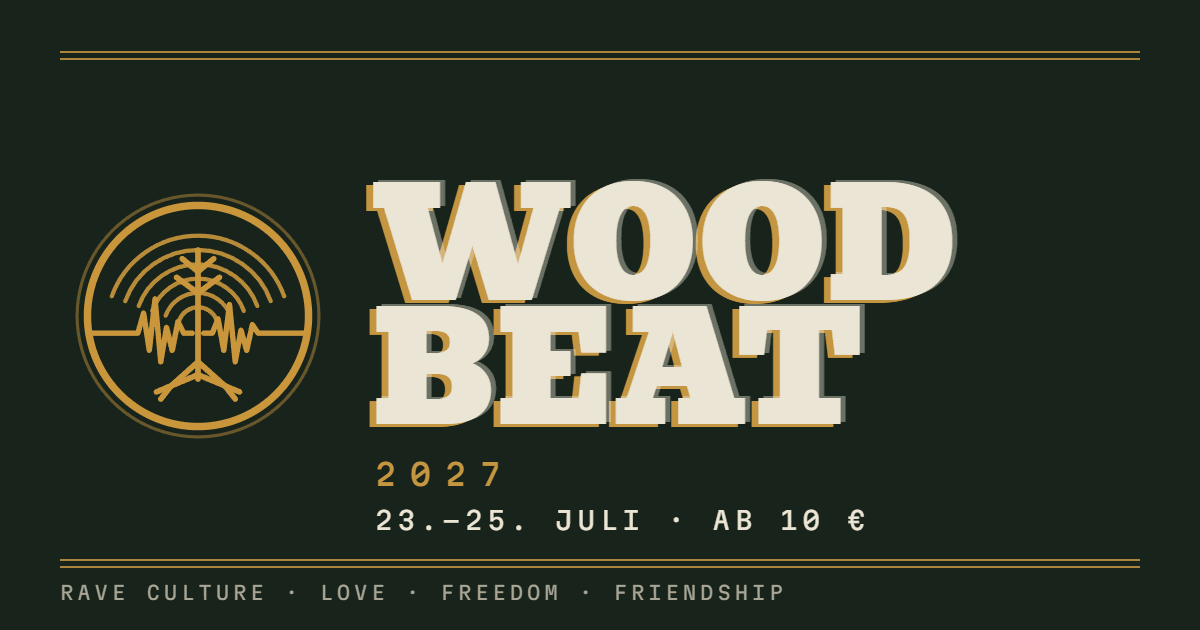
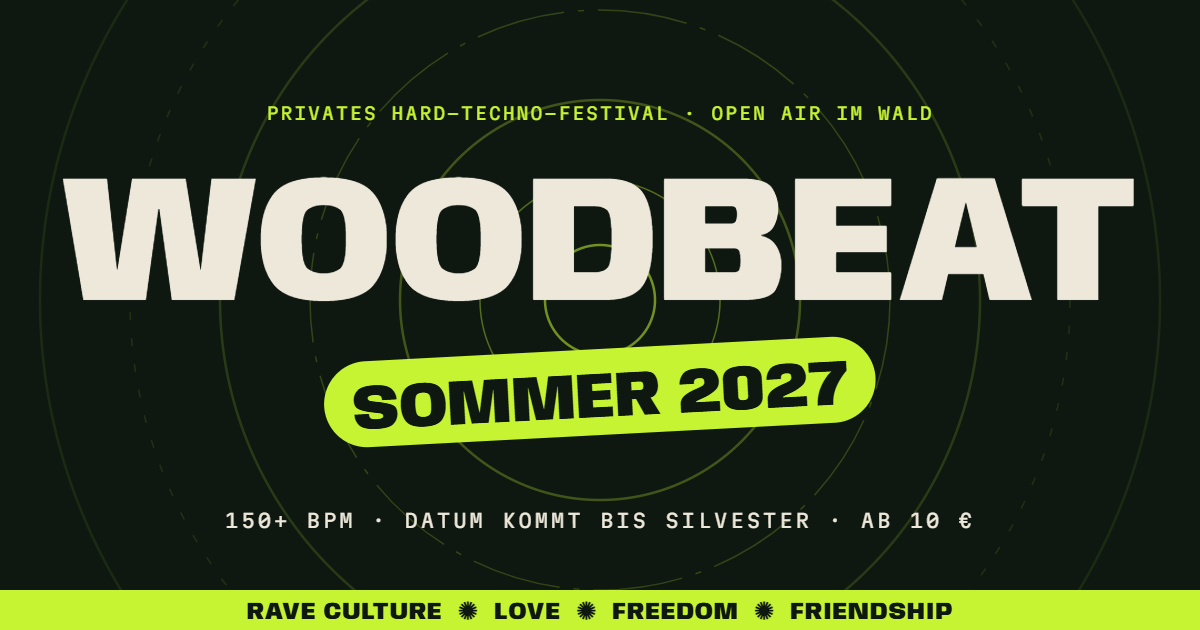
Sound-Sektion (150+ BPM, Genres), Genre-Umfrage, Takt 150, neues Vorschaubild, QS-Fixes
- Der Sound: 150+ BPM, Hard Groove bis Drum & Bass, Psytrance ab und zu
- Umfrage 'sound' mit den echten Genres (Mehrfachauswahl, alte Keys dnb/goa bleiben)
- Ton, CSS-Puls und Texte auf 150 BPM
- og-image.png im neuen Look, ohne das Platzhalter-Datum
- Placeholder-Kontrast 4,1 -> ueber 4,5:1, vibrate nur bei echter Nutzergeste

diff --git a/index.html b/index.html
@@ -9,7 +9,7 @@
 
   <!-- Link-Vorschau (WhatsApp & Co.). og:image MUSS 1200×630 bleiben. -->
   <meta property="og:title" content="WoodBeat 2027 🌲" />
-  <meta property="og:description" content="Sommer 2027. Drei Tage, zwei Nächte, ein Wald. Das Datum kommt bis Silvester — tipp mit." />
+  <meta property="og:description" content="Sommer 2027. Hard Techno im Wald, 150+ BPM. Drei Tage, zwei Nächte. Das Datum kommt bis Silvester — tipp mit." />
   <meta property="og:type" content="website" />
   <meta property="og:image" content="https://vebzyyhere.github.io/woodbeat/og-image.png" />
   <meta property="og:image:width" content="1200" />
@@ -24,6 +24,7 @@
     <a class="nav__marke" href="#top">WoodBeat<span>*</span>27</a>
     <ul class="nav__links" id="nav-links">
       <li><a href="#datum">Datum</a></li>
+      <li><a href="#sound">Sound</a></li>
       <li><a href="#abstimmen">Abstimmen</a></li>
       <li><a href="#programm">Programm</a></li>
       <li><a href="#tickets">Tickets</a></li>
@@ -58,7 +59,7 @@
         <circle cx="200" cy="200" r="22" stroke-opacity=".6"/>
       </svg>
     </div>
-    <p class="hero__kicker mono hero__auf">Privates Techno-Festival · Open Air im Wald</p>
+    <p class="hero__kicker mono hero__auf">Privates Hard-Techno-Festival · Open Air im Wald · 150+ BPM</p>
     <h1 class="hero__wort disp">Woodbeat</h1>
     <div class="hero__fuss hero__auf">
       <span class="pille disp" id="hero-wann">Sommer 2027</span>
@@ -102,6 +103,14 @@
       <p class="gleiten__zeile disp gleiten--l">Drei Tage <span class="kontur">Drei Tage</span></p>
       <p class="gleiten__zeile gleiten__zeile--lime disp gleiten--r">Zwei Nächte <span class="kontur">Zwei Nächte</span></p>
       <p class="gleiten__zeile disp gleiten--l">Ein Wald <span class="kontur">Ein Wald Ein Wald</span></p>
+    </section>
+
+    <!-- ================= DER SOUND ================= -->
+    <section class="sek sound" id="sound" aria-labelledby="sound-titel">
+      <p class="nr mono">Der Sound</p>
+      <h2 class="sound__bpm disp dehnen" id="sound-titel"><span id="sound-bpm"></span> <span class="sound__einheit">BPM</span></h2>
+      <p class="sound__satz auf" id="sound-satz"></p>
+      <ul class="sound__liste" id="sound-liste"></ul>
     </section>
 
     <!-- ================= 02 ABSTIMMEN (hell) ================= -->
@@ -234,7 +243,7 @@
 
       <footer class="fuss">
         <span class="fuss__marke disp">WoodBeat</span>
-        <span class="mono fuss__text">Privat · Freundeskreis<br />Gesetzt am Küchentisch. 128 BPM.</span>
+        <span class="mono fuss__text">Privat · Freundeskreis<br />Gesetzt am Küchentisch. 150 BPM aufwärts.</span>
       </footer>
     </section>
   </main>

diff --git a/src/style.css b/src/style.css
@@ -34,7 +34,7 @@
   --rand: clamp(16px, 4vw, 48px);  /* seitlicher Satzrand */
   --luft: clamp(96px, 14vw, 180px); /* Abstand zwischen Sektionen */
   --kick: 0;                        /* Herzschlag, siehe register.js */
-  --bpm: 128;
+  --bpm: 150;
   --schlag: calc(60s / var(--bpm));
 
   color-scheme: dark;
@@ -360,6 +360,30 @@ html:not(.ton-an) .hero__ringe { animation: schlag var(--schlag) infinite; }
 .gleiten__zeile:nth-child(3) { padding-left: 8vw; }
 .gleiten__zeile--lime { color: var(--lime); }
 
+/* Der Sound — 150+ BPM, die Genres als Treppe */
+.sound { padding-top: 0; }
+.sound__bpm { font-size: clamp(96px, 22vw, 320px); font-stretch: 120%; color: var(--lime); line-height: .8; }
+.sound__einheit { font-size: .32em; color: var(--creme); vertical-align: top; }
+.sound__satz { font-size: clamp(20px, 2.4vw, 28px); line-height: 1.35; max-width: 640px; margin: 32px 0 40px; }
+.sound__liste { border-top: 1px solid var(--linie); }
+.genre {
+  display: flex; align-items: baseline; gap: 16px; flex-wrap: wrap;
+  padding: 16px 0; border-bottom: 1px solid var(--linie);
+}
+.genre__nr { color: var(--lime); min-width: 28px; }
+.genre__name {
+  font-size: clamp(36px, 7vw, 96px); font-stretch: 90%;
+  transition: font-stretch .35s cubic-bezier(.2, .8, .2, 1), color .2s;
+}
+.genre:hover .genre__name { font-stretch: 150%; color: var(--lime); }
+.genre--selten .genre__name { -webkit-text-stroke: 1.5px var(--creme); color: transparent; }
+.genre--selten:hover .genre__name { -webkit-text-stroke-color: var(--lime); color: transparent; }
+.genre__marke { border: 1.5px dashed var(--lime); color: var(--lime); padding: 4px 10px; border-radius: 999px; }
+@media (min-width: 800px) {
+  .genre:nth-child(odd) { padding-left: 0; }
+  .genre:nth-child(even) { padding-left: 8vw; }
+}
+
 /* ---------- 7  ABSTIMMEN ---------- */
 .abstimmen__kopf { display: flex; flex-direction: column; gap: 24px; align-items: flex-start; }
 .umfragen { display: flex; flex-direction: column; gap: 56px; min-width: 0; }
@@ -640,7 +664,7 @@ html:not(.ton-an) .hero__ringe { animation: schlag var(--schlag) infinite; }
   border: 2px solid var(--nacht); background: rgba(255, 255, 255, .35); color: var(--nacht);
   font-size: 18px;
 }
-.feld__eingabe::placeholder { color: rgba(14, 24, 16, .55); }
+.feld__eingabe::placeholder { color: rgba(14, 24, 16, .7); }
 .feld__eingabe:focus-visible { outline: 3px solid var(--nacht); outline-offset: 2px; background: rgba(255, 255, 255, .6); }
 .feld__eingabe[aria-invalid="true"] { border-style: dashed; }
 .rsvp__status { font-weight: 600; min-height: 1.5em; }

diff --git a/src/data.js b/src/data.js
@@ -43,6 +43,24 @@ export const SPOTIFY = {
 };
 
 // ============================================================
+// DER SOUND — wofür WoodBeat steht. `selten: true` = läuft ab und zu.
+// ============================================================
+
+export const SOUND = {
+  bpm: '150+',
+  satz: 'Wir sind eher bei 150 BPM aufwärts unterwegs. Das hier läuft in der Regel:',
+  genres: [
+    { name: 'Hard Groove' },
+    { name: 'Hardtechno' },
+    { name: 'Hardstyle' },
+    { name: 'Uptempo / Frenchcore' },
+    { name: 'Tech House' },
+    { name: 'Drum & Bass' },
+    { name: 'Psytrance', selten: true },
+  ],
+};
+
+// ============================================================
 // UMFRAGEN
 // `multi: true` = Mehrfachauswahl. `key` ist der Speicherschlüssel
 // und darf NIE geändert werden — `label` jederzeit.
@@ -51,13 +69,18 @@ export const SPOTIFY = {
 export const UMFRAGEN = [
   {
     id: 'sound',
-    frage: 'Welcher Sound soll nachts laufen?',
-    multi: false,
+    frage: 'Was soll nachts laufen?',
+    multi: true,
+    // Keys = Speicherschlüssel. 'dnb' und 'goa' stammen aus der alten
+    // Liste und bleiben, damit frühere Stimmen gültig sind.
     options: [
-      { key: 'techno', label: 'Techno — hart & treibend' },
-      { key: 'melodic', label: 'Melodic Techno / House' },
+      { key: 'hardgroove', label: 'Hard Groove' },
+      { key: 'hardtechno', label: 'Hardtechno' },
+      { key: 'hardstyle', label: 'Hardstyle' },
+      { key: 'uptempo', label: 'Uptempo / Frenchcore' },
+      { key: 'techhouse', label: 'Tech House' },
       { key: 'dnb', label: 'Drum & Bass' },
-      { key: 'goa', label: 'Goa / Psytrance' },
+      { key: 'goa', label: 'Psytrance' },
     ],
   },
   {

diff --git a/src/sections.js b/src/sections.js
@@ -11,7 +11,7 @@
 
 import {
   ANFAHRT, BAR, CREW, FAQ, KODEX, LINEUP, LINEUP_HINWEIS,
-  RUECKBLICK, SPOTIFY, TICKETS, TICKETS_HINWEIS, TIMETABLE, WUENSCHE,
+  RUECKBLICK, SOUND, SPOTIFY, TICKETS, TICKETS_HINWEIS, TIMETABLE, WUENSCHE,
 } from './data.js';
 import { phase } from './countdown.js';
 import { uebergang } from './register.js';
@@ -25,6 +25,20 @@ const el = (tag, klasse, text) => {
 
 /** Leerzustand: gestrichelte Fläche mit Hinweis. */
 const leer = (text) => el('p', 'leer mono', text);
+
+// ---------- DER SOUND ----------
+
+export function renderSound(bpm, satz, liste) {
+  bpm.textContent = SOUND.bpm;
+  satz.textContent = SOUND.satz;
+  SOUND.genres.forEach((genre, i) => {
+    const zeile = el('li', 'genre auf' + (genre.selten ? ' genre--selten' : ''));
+    zeile.append(el('span', 'genre__nr mono', String(i + 1).padStart(2, '0')));
+    zeile.append(el('span', 'genre__name disp', genre.name));
+    if (genre.selten) zeile.append(el('span', 'genre__marke mono', 'ab und zu'));
+    liste.append(zeile);
+  });
+}
 
 // ---------- LINE-UP ----------
 

diff --git a/src/main.js b/src/main.js
@@ -21,7 +21,7 @@ import { teilen } from './teilen.js';
 import { reducedMotion } from './register.js';
 import {
   renderBar, renderFaq, renderKodex, renderLageplan, renderLaufplan, renderLineup,
-  renderMitbringen, renderPlaylist, renderRueckblick, renderTickets, ticketKnoepfeVerbinden,
+  renderMitbringen, renderPlaylist, renderRueckblick, renderSound, renderTickets, ticketKnoepfeVerbinden,
 } from './sections.js';
 
 const $ = (wahl) => document.querySelector(wahl);
@@ -66,6 +66,7 @@ initCountdown(
 initPolls({ umfragen: $('#umfragen'), tipp: $('#tipp'), modus: $('#abstimmen-modus') });
 $('#abstimmen-teilen').addEventListener('click', () => teilen(auszaehlungAlsText()));
 
+renderSound($('#sound-bpm'), $('#sound-satz'), $('#sound-liste'));
 renderLineup($('#lineup-liste'), $('#lineup-hinweis'));
 renderLaufplan($('#tag-reiter'), $('#lauf-liste'));
 renderPlaylist($('#spotify'));

diff --git a/src/register.js b/src/register.js
@@ -3,7 +3,7 @@
 //
 // `--kick` (0…1) auf <html> ist der Herzschlag der Seite: die
 // Jahresringe im Kopf und die Pille "Sommer 2027" wachsen mit ihm.
-// Ohne Ton pulsiert er per CSS im 128-BPM-Takt; läuft der Ton,
+// Ohne Ton pulsiert er per CSS im 150-BPM-Takt; läuft der Ton,
 // gibt der Audio-Takt den Schlag vor. Eine Stimmabgabe oder Zusage
 // löst einen Extra-Schlag aus — lokale Handlung, seitenweite Folge.
 // ============================================================

diff --git a/src/rsvp.js b/src/rsvp.js
@@ -132,7 +132,7 @@ export function initRsvp({ form, zaehler, aufteilung, ticketWahl, name, notiz, s
     senden.disabled = true;
     status.textContent = 'Wird eingetragen …';
     puls(9, 140);
-    navigator.vibrate?.(12);
+    if (navigator.userActivation?.isActive) navigator.vibrate?.(12);
 
     const angekommen = await saveRsvp({ name: gewaehlt, ticket, notiz: notiz.value.trim() });
     senden.disabled = false;

diff --git a/src/audio.js b/src/audio.js
@@ -15,7 +15,7 @@
 
 import { cssPulsAktiv, puls, reducedMotion } from './register.js';
 
-const BPM = 128;
+const BPM = 150;
 const BEAT = 60 / BPM;
 const VORLAUF = 0.12;   // Sekunden, die im Voraus geplant werden
 const TAKT = 25;        // Millisekunden zwischen zwei Planungsläufen

diff --git a/src/polls.js b/src/polls.js
@@ -163,7 +163,7 @@ async function stimmeAb(poll, key) {
   else neue = [key];
 
   puls();
-  navigator.vibrate?.(12);
+  if (navigator.userActivation?.isActive) navigator.vibrate?.(12);
 
   optimistisch(poll.id, neue, alte);
   geladen = true;   // ab jetzt gibt es Zahlen zu zeigen

diff --git a/CLAUDE.md b/CLAUDE.md
@@ -126,7 +126,7 @@ Ein Rave im nächtlichen Wald. Entworfen auf der Design-Canvas
   **Browser ohne Scroll-Timelines** bekommen `html.ohne-timeline` + einmalige
   Einblendungen per IntersectionObserver (`initRevealErsatz()`).
 - **Herzschlag:** `--kick` (0…1) skaliert die Hero-Ringe. Ohne Ton pulsiert CSS
-  im 128-BPM-Takt; läuft der Ton, schaltet `html.ton-an` das ab und der Audio-Takt
+  im 150-BPM-Takt; läuft der Ton, schaltet `html.ton-an` das ab und der Audio-Takt
   schlägt. Stimmabgabe/Zusage = Extra-Schlag via `puls()`.
 - **Keine Emoji in der UI.** Ausnahme: `og:title` und Share-Texte.
 - **Leerzustände sind entworfen:** „Slot frei", „Foto folgt", „Hand heben", nie „TBD".
